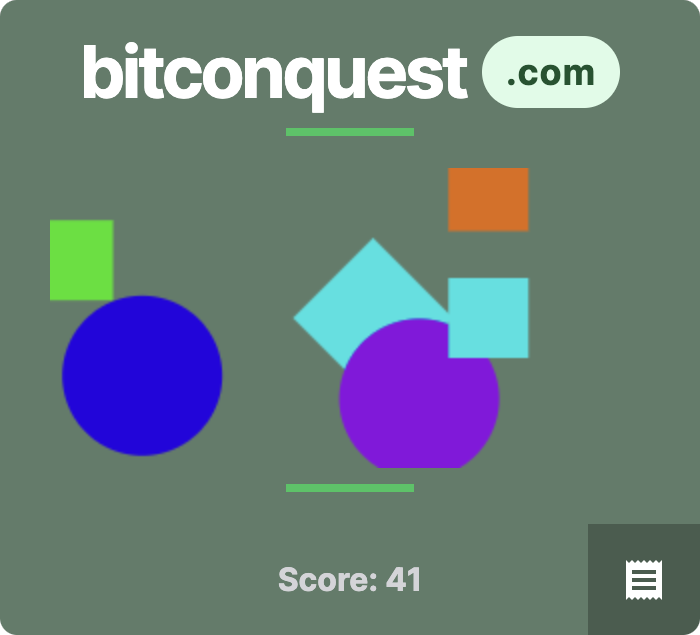
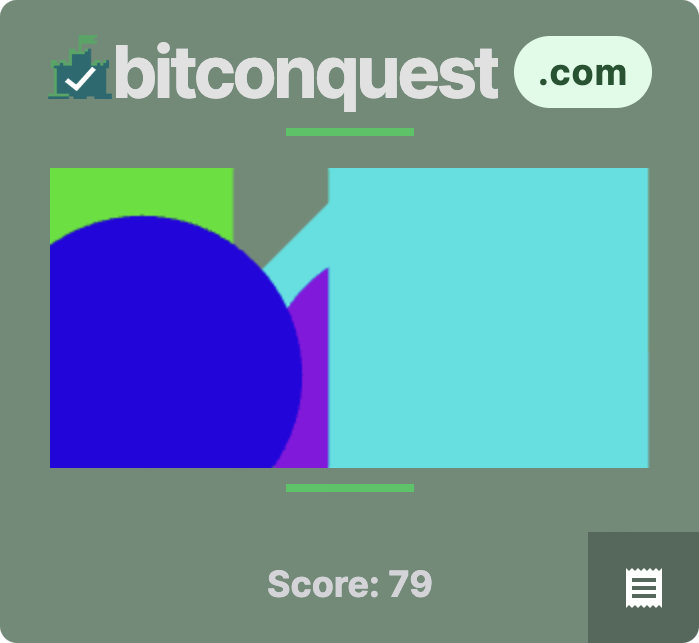
Update the cards on the home page and adjust flair shape sizes

diff --git a/app/HomeHero.tsx b/app/HomeHero.tsx
@@ -7,7 +7,7 @@ export const HomeHero = () => {
 
   useEffect(() => {
     const handleScroll = () => {
-    // Calculate the distance from the bottom of the page
+        // Calculate the distance from the bottom of the page
         const scrollPosition = window.scrollY + window.innerHeight;
         const bottomDistance = document.body.offsetHeight - scrollPosition;
 
@@ -18,9 +18,6 @@ export const HomeHero = () => {
             const newHeight = Math.max(100, 318 - window.scrollY);
             setHeroHeight(newHeight);
         }
-
-        //const newHeight = Math.max(100, 318 - window.scrollY);
-        //setHeroHeight(newHeight);
     };
 
     window.addEventListener('scroll', handleScroll);
@@ -30,9 +27,9 @@ export const HomeHero = () => {
 
   return (
     <div className="hero-container flex flex-row justify-between w-full overflow-hidden" style={{ height: `${heroHeight}px` }}>
-      <img width={350} height={318} className="hidden sm:block absolute top-48 left-12 -rotate-12 z-[-2] shadow-md shadow-black" alt="Conquest Card for whnvr.com" src="whnvr-domaincard.png" />
-      <img width={350} height={318} className="absolute top-32 left-[calc(50%-175px)] z-[-1] shadow-md shadow-black" alt="Conquest Card for bitconquest.com" src="bitconquest-domaincard.png" />
-      <img width={350} height={318} className="hidden sm:block absolute top-48 right-12 rotate-12 z-[-2] shadow-md shadow-black" alt="Conquest Card for samhuckaby.com" src="samhuckaby-domaincard.png" />
+      <img width={350} height={318} className="hidden sm:block absolute top-48 left-12 -rotate-12 z-[-2] drop-shadow-[8px_4px_8px_rgba(0,0,0,0.3)]" alt="Conquest Card for whnvr.com" src="whnvr-domaincard.png" />
+      <img width={350} height={318} className="absolute top-32 left-[calc(50%-175px)] z-[-1] drop-shadow-[8px_2px_8px_rgba(0,0,0,0.3)]" alt="Conquest Card for bitconquest.com" src="bitconquest-domaincard.png" />
+      <img width={350} height={318} className="hidden sm:block absolute top-48 right-12 rotate-12 z-[-2] drop-shadow-[8px_0px_8px_rgba(0,0,0,0.3)]" alt="Conquest Card for samhuckaby.com" src="samhuckaby-domaincard.png" />
     </div>
   );
 };

diff --git a/utils/art/portrait.ts b/utils/art/portrait.ts
@@ -34,7 +34,7 @@ const charToShape: Record<string, string> = {
 const drawCircle = (ctx: CanvasRenderingContext2D, x: number, y: number, color: string) => {
 	ctx.fillStyle = color;
 	ctx.beginPath();
-	ctx.arc(x, y, 40, 0, Math.PI * 2);
+	ctx.arc(x, y, 80, 0, Math.PI * 2);
 	ctx.fill();
 }
 
@@ -42,7 +42,7 @@ const drawCircle = (ctx: CanvasRenderingContext2D, x: number, y: number, color: 
 const drawSquare = (ctx: CanvasRenderingContext2D, x: number, y: number, color: string) => {
 	ctx.fillStyle = color;
 	ctx.beginPath();
-	ctx.rect(x - 20, y - 20, 40, 40);
+	ctx.rect(x - 80, y - 80, 160, 160);
 	ctx.fill();
 }
 
@@ -50,10 +50,10 @@ const drawSquare = (ctx: CanvasRenderingContext2D, x: number, y: number, color: 
 const drawDiamond = (ctx: CanvasRenderingContext2D, x: number, y: number, color: string) => {
 	ctx.fillStyle = color;
 	ctx.beginPath();
-	ctx.moveTo(x, y - 40); // Top point
-	ctx.lineTo(x + 40, y); // Right point
-	ctx.lineTo(x, y + 40); // Bottom point
-	ctx.lineTo(x - 40, y); // Left point
+	ctx.moveTo(x, y - 80); // Top point
+	ctx.lineTo(x + 80, y); // Right point
+	ctx.lineTo(x, y + 80); // Bottom point
+	ctx.lineTo(x - 80, y); // Left point
 	ctx.closePath();
 	ctx.fill();
 }

diff --git a/app/u/[username]/DomainDialog.tsx b/app/u/[username]/DomainDialog.tsx
@@ -133,7 +133,7 @@ export const DomainDialog = ({ open, verifier, domain, clear = false, onClose }:
             </div>
             <div className={`absolute flex flex-row justify-center items-center inset-0 z-10 bg-gray-500`}></div>
             <div className={`absolute flex flex-col justify-center items-center inset-0 z-10 ${background}`}>
-              <span className="text-2xl font-bold tracking-tighter sm:text-3xl md:text-4xl flex flex-row items-center w-full px-2">
+              <span className="text-2xl font-bold tracking-tighter sm:text-3xl md:text-4xl flex flex-row items-center justify-center w-full px-2">
                 <span className='truncate' title={url.split('.')[0]}>{url.split('.')[0]}</span>
                 <span className={`${text} ${badge} text-lg rounded-full ml-2 py-1 px-3 tracking-wide`}>.{url.split('.')[1]}</span>
               </span>
